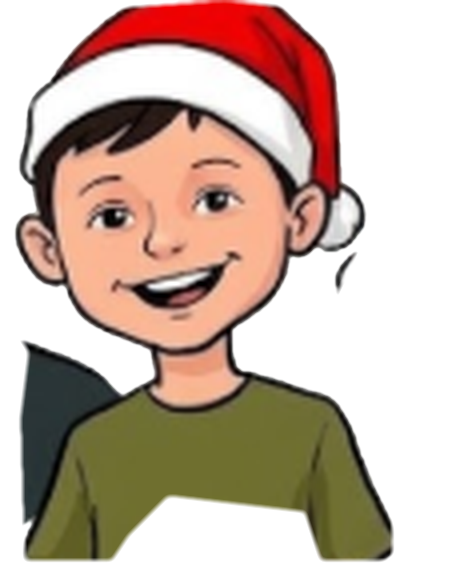
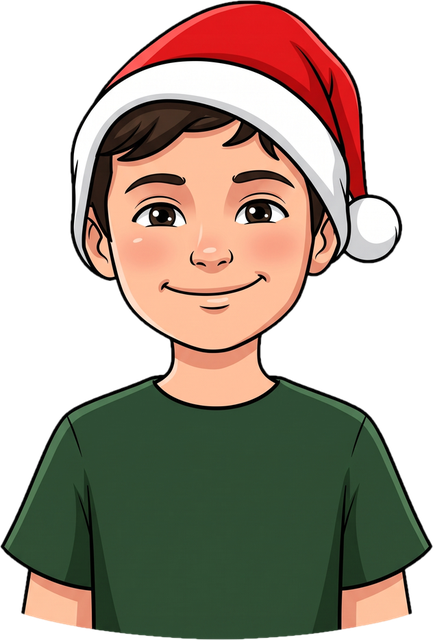
Caricaturas novas (geradas pelo Daniel) + familia na frente da arvore
Bustos individuais em alta resolucao com fundo branco solido, recorte
limpo por flood fill. Recepcao reorganizada: arvore maior ao fundo,
familia na frente, faixa BEM-VINDOS acima.

diff --git a/js/anim.js b/js/anim.js
@@ -7,9 +7,9 @@
   const AV = (n) => `assets/busts/${n}.png`;
   // proporção largura/altura de cada busto (gerado pelo make_busts.py)
   const AR = {
-    "m-menino": 0.803, "m-pai": 0.692, "m-bebe": 1.195, "m-mae": 0.639,
-    "v-homem1": 0.519, "v-mulher1": 0.59, "v-homem2": 0.604,
-    "v-mulher2": 0.726, "v-vovo": 0.670, "v-vo": 0.602, "v-menina": 0.761,
+    "m-menino": 0.677, "m-pai": 0.678, "m-bebe": 0.684, "m-mae": 0.659,
+    "v-homem1": 0.709, "v-mulher1": 0.691, "v-homem2": 0.675,
+    "v-mulher2": 0.661, "v-vovo": 0.72, "v-vo": 0.594, "v-menina": 0.673,
   };
   const bust = (n, cx, bottom, h, extra = "") =>
     `<image class="bust b-${n}" href="${AV(n)}" x="${cx - (h * AR[n]) / 2}" y="${bottom - h}" width="${h * AR[n]}" height="${h}" ${extra}/>`;
@@ -126,7 +126,7 @@
   function reception() {
     return `
     <g id="reception">
-      <g class="xtree" transform="translate(95 352) scale(1.15)">
+      <g class="xtree" transform="translate(190 330) scale(1.6)">
         <rect x="-8" y="52" width="16" height="20" rx="3" fill="#8a5a33"/>
         <path d="M0 -58 L34 -6 L14 -6 L42 34 L18 34 L48 70 L-48 70 L-18 34 L-42 34 L-14 -6 L-34 -6 Z" fill="#3d6b45" stroke="#2c5234" stroke-width="3" stroke-linejoin="round"/>
         <circle cx="-16" cy="22" r="5" fill="#c84a3c"/><circle cx="18" cy="48" r="5" fill="#d9a62e"/>
@@ -134,21 +134,21 @@
         <path class="star" d="M0 -78 L5 -65 L19 -65 L8 -56 L12 -43 L0 -51 L-12 -43 L-8 -56 L-19 -65 L-5 -65 Z" fill="#e8b93c" stroke="#c89a25" stroke-width="2"/>
       </g>
       <g id="banner">
-        <line x1="168" y1="238" x2="168" y2="310" stroke="#8a5a33" stroke-width="5"/>
-        <line x1="390" y1="238" x2="390" y2="310" stroke="#8a5a33" stroke-width="5"/>
+        <line x1="66" y1="146" x2="66" y2="218" stroke="#8a5a33" stroke-width="5"/>
+        <line x1="314" y1="146" x2="314" y2="218" stroke="#8a5a33" stroke-width="5"/>
         <g id="banner-cloth">
-          <path d="M 168 240 Q 279 260 390 240 L 390 282 Q 279 302 168 282 Z" fill="#fffdf6" stroke="#c84a3c" stroke-width="3.5"/>
-          <text x="279" y="272" text-anchor="middle" font-size="24" font-weight="700" letter-spacing="2.5" fill="#c84a3c">BEM-VINDOS!</text>
+          <path d="M 66 150 Q 190 170 314 150 L 314 192 Q 190 212 66 192 Z" fill="#fffdf6" stroke="#c84a3c" stroke-width="3.5"/>
+          <text x="190" y="181" text-anchor="middle" font-size="24" font-weight="700" letter-spacing="2.5" fill="#c84a3c">BEM-VINDOS!</text>
         </g>
       </g>
       <g id="greeters">
-        ${bust("m-pai", 204, 420, 105)}
-        ${bust("m-mae", 274, 422, 98)}
-        ${bust("m-menino", 334, 420, 80)}
-        ${bust("m-bebe", 146, 416, 52)}
+        ${bust("m-pai", 150, 452, 118)}
+        ${bust("m-mae", 218, 454, 112)}
+        ${bust("m-menino", 272, 448, 92)}
+        ${bust("m-bebe", 92, 446, 64)}
       </g>
-      <rect x="154" y="404" width="262" height="28" rx="14" fill="#7fa06b"/>
-      <rect x="144" y="412" width="282" height="26" rx="13" fill="#90b17a"/>
+      <rect x="64" y="438" width="262" height="28" rx="14" fill="#7fa06b"/>
+      <rect x="54" y="446" width="282" height="26" rx="13" fill="#90b17a"/>
     </g>`;
   }
 
@@ -269,8 +269,8 @@
       r.setAttribute("fill", colors[i % colors.length]);
       g.appendChild(r);
       gsap.fromTo(r,
-        { x: 320, y: 320, rotation: 0, opacity: 1 },
-        { x: 320 + gsap.utils.random(-300, 300), y: 320 + gsap.utils.random(-60, 310),
+        { x: 260, y: 310, rotation: 0, opacity: 1 },
+        { x: 260 + gsap.utils.random(-300, 300), y: 310 + gsap.utils.random(-60, 310),
           rotation: gsap.utils.random(-420, 420), opacity: 0,
           duration: gsap.utils.random(1.3, 2.4), ease: "power2.out" });
     }
@@ -295,7 +295,7 @@
     const LIFT = -52;
     gsap.set(vanEl, { x: SANTOS.x, y: SANTOS.y + LIFT, scale: VS, transformOrigin: "center bottom" });
     gsap.set(qa("#van .bust"), { scale: 0, transformOrigin: "50% 100%" });
-    gsap.set("#banner-cloth", { scaleY: 0, svgOrigin: "279 244" });
+    gsap.set("#banner-cloth", { scaleY: 0, svgOrigin: "190 154" });
     gsap.set(qa("#greeters .bust"), { y: 26, opacity: 0 });
 
     // nuvens ao vento o tempo todo
@@ -344,7 +344,7 @@
       .call(() => setCaption("mais de 400 km de saudade pela frente…"), null, "trip+=2.8")
       // 4) chegada
       .call(() => { clearInterval(puffTimer); puffTimer = null; setCaption(null); })
-      .to(cam, { x: 360, y: 390, w: 780, duration: 1.1, ease: "power2.inOut", onUpdate: applyCam })
+      .to(cam, { x: 330, y: 370, w: 800, duration: 1.1, ease: "power2.inOut", onUpdate: applyCam })
       .to(qa(".city-label")[0], { opacity: 1, duration: 0.5 }, "<+=0.3")
       .call(() => setCaption("chegamos! 🎉 …quer dizer, falta pouco!"))
       .to(qa("#greeters .bust"), { y: 0, opacity: 1, duration: 0.55, ease: "back.out(2.6)", stagger: 0.13 })
